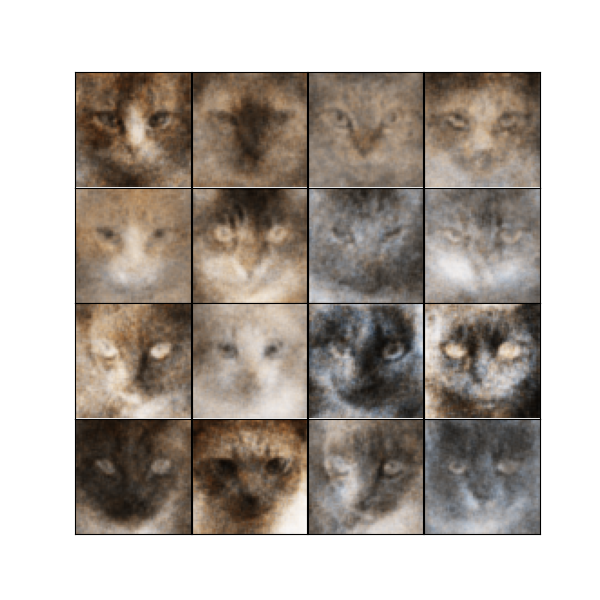
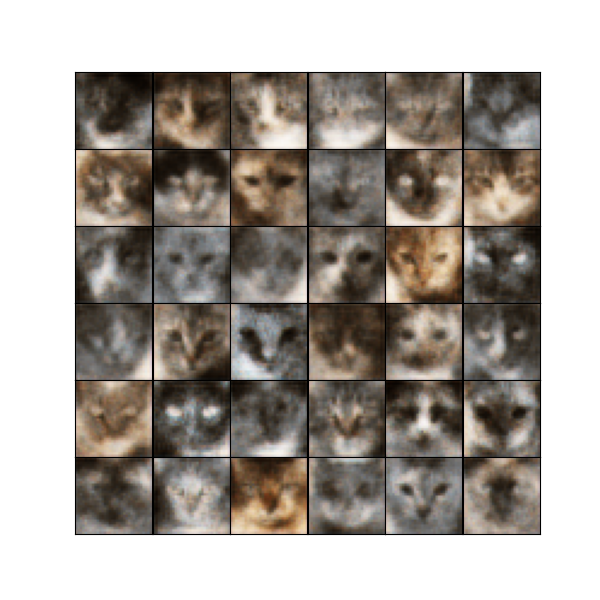
More output and noise

diff --git a/src/genetic_algorithm.py b/src/genetic_algorithm.py
@@ -9,7 +9,8 @@ from torch import optim
 from torch.utils.data import DataLoader
 
 from src.config import ACTIVATION_FUNCTIONS, DEVICE, BEST_MODEL_PATH, CONV_FEATURES, KERNEL_SIZES, USE_CONV, \
-    LINEAR_FEATURES, LATENT_SIZE, WANDB_LOGIN, ATTEMPTS_INDIVIDUAL
+    LINEAR_FEATURES, LATENT_SIZE, WANDB_LOGIN, ATTEMPTS_INDIVIDUAL, ADD_NOISE, ROOT_N_IMAGES, GENERATED_PATH, \
+    TRUE_PATH, RECS_PATH
 from src.autoencoder import *
 from src.utils import visualize_collection
 
@@ -262,7 +263,12 @@ class Individual:
             inputs = inputs.to(DEVICE)
             optimizer.zero_grad()
 
-            latent_vector, reconstruction = model(inputs)
+            if ADD_NOISE:
+                noise = torch.rand_like(inputs) * 0.1 - 0.05
+                noise = noise.to(DEVICE)
+                latent_vector, reconstruction = model(inputs + noise)
+            else:
+                latent_vector, reconstruction = model(inputs)
 
             loss = criterion(reconstruction, inputs)
             loss.backward()
@@ -341,16 +347,24 @@ class Individual:
         model.eval()
 
         latent_vectors = None
+        eval_true = None
+        eval_recs = None
         for inputs in self.parent.train_loader:
             inputs = inputs.to(DEVICE)
             with torch.set_grad_enabled(False):
                 latent_vector = model.encoder(inputs).cpu().detach()
+
                 if latent_vectors is None:
                     latent_vectors = latent_vector
+                    eval_true = inputs
+                    eval_recs = model.decoder(latent_vector).cpu().detach()
                 else:
                     latent_vectors = torch.concat((latent_vectors, latent_vector), dim=0)
+                    eval_true = torch.concat((eval_true, inputs), dim=0)
+                    eval_recs = torch.concat((eval_recs, model.decoder(latent_vector).cpu().detach()), dim=0)
 
-        return torch.mean(latent_vectors, dim=0), torch.std(latent_vectors, dim=0)
+
+        return torch.mean(latent_vectors, dim=0), torch.std(latent_vectors, dim=0), eval_true, eval_recs
 
     def fit_autoencoder(self, epochs):
         """
@@ -380,7 +394,7 @@ class Individual:
         model, best_score = self.train(model, criterion, optimizer, scheduler, epochs, epochs // 2)
         return model.to('cpu'), best_score
 
-    def visualize(self, epochs, n=16):
+    def visualize(self, epochs):
         """
         Visualizes generation capabilities of individual
 
@@ -389,13 +403,16 @@ class Individual:
         :return:
         """
         model, best_score = self.fit_long(epochs)
-        means, stds = self.get_latent_dist(model.to(DEVICE))
+        means, stds, eval_true, eval_recs = self.get_latent_dist(model.to(DEVICE))
+        latent_batch = torch.concat([torch.normal(means, stds).unsqueeze(0) for _ in range(ROOT_N_IMAGES ** 2)], dim=0).to(DEVICE)
+
         model.eval()
-        latent_batch = torch.concat([torch.normal(means, stds).unsqueeze(0) for _ in range(n)], dim=0).to(DEVICE)
         recs = model.decoder(latent_batch)
         model.to('cpu')
 
-        visualize_collection(recs, n)
+        visualize_collection(recs, GENERATED_PATH)
+        visualize_collection(eval_true[:ROOT_N_IMAGES ** 2], TRUE_PATH)
+        visualize_collection(eval_recs[:ROOT_N_IMAGES ** 2], RECS_PATH)
 
     def __str__(self):
         return str(self.chromosomes)
@@ -461,7 +478,7 @@ class GeneticAlgorithm:
         if WANDB_LOGIN:
             wandb.log({"best_score": best_fitness})
 
-        pbar = tqdm(list(range(epochs)), desc='Genetic algorithm', leave=True)
+        pbar = tqdm(list(range(epochs)), desc='Genetic algorithm')
         for _ in pbar:
             best_pops = population[-n_children // 2:]
             candidate_pops = population[-n_children:]
@@ -479,7 +496,7 @@ class GeneticAlgorithm:
                 best_fitness = population[-1].get_fitness(epochs_per_model)
                 best_fit = population[-1]
 
-            pbar.set_postfix_str(f'Best score: {best_fitness}, Best_individual: {best_fit}')
+            pbar.set_postfix_str(f'Best score: {best_fitness}, Best_individual: {best_fit}\n')
             if WANDB_LOGIN:
                 wandb.log({"best_score": best_fitness})
         if WANDB_LOGIN:

diff --git a/src/utils.py b/src/utils.py
@@ -1,33 +1,32 @@
 import matplotlib.pyplot as plt
 
-from src.config import GENERATED_PATH
+from src.config import ROOT_N_IMAGES
 
 
-def show(imgs, ncols=4, nrows=4):
+def show(imgs, save_path):
     """
     Output image grid to specified file
 
     :param imgs: collection of images
-    :param ncols: number of columns
-    :param nrows: number of rows
+    :param save_path:
     """
     if not isinstance(imgs, list):
         imgs = [imgs]
-    fig, axs = plt.subplots(ncols=ncols, nrows=nrows, figsize=(6, 6))
+    fig, axs = plt.subplots(ncols=ROOT_N_IMAGES, nrows=ROOT_N_IMAGES, figsize=(ROOT_N_IMAGES, ROOT_N_IMAGES))
     for i, img in enumerate(imgs):
-        axs[i // ncols, i % ncols].imshow(img)
-        axs[i // ncols, i % ncols].set(xticklabels=[], yticklabels=[], xticks=[], yticks=[])
+        axs[i // ROOT_N_IMAGES, i % ROOT_N_IMAGES].imshow(img)
+        axs[i // ROOT_N_IMAGES, i % ROOT_N_IMAGES].set(xticklabels=[], yticklabels=[], xticks=[], yticks=[])
     plt.subplots_adjust(wspace=0, hspace=0)
-    plt.savefig(GENERATED_PATH)
+    plt.savefig(save_path)
 
 
-def visualize_collection(collection, n=16):
+def visualize_collection(collection, save_path):
     """
     transforms collection of torch Tensors for future output
 
     :param collection:
-    :param n:
+    :param save_path:
     :return:
     """
-    imgs = [collection[i].cpu().detach().numpy().transpose((1, 2, 0)) for i in range(n)]
-    show(imgs, int(n ** .5), int(n ** .5))
+    imgs = [collection[i].cpu().detach().numpy().transpose((1, 2, 0)) for i in range(ROOT_N_IMAGES ** 2)]
+    show(imgs, save_path)

diff --git a/src/config.py b/src/config.py
@@ -1,4 +1,3 @@
-import torch
 from torchvision import transforms as tt
 
 WANDB_LOGIN = False
@@ -9,20 +8,21 @@ DATASET_PATH = "./cats"
 DEVICE = 'cpu'
 TRANSFORM = tt.Compose([
     tt.ToTensor(),
-    tt.Resize(64),
+    tt.Resize(32),
 ])
 
 # training configs
 TRAIN_PORTION = 0.1  # either float as portion or integer as number of objects
 VALIDATION_PORTION = 0.05  # either float as portion or integer as number of objects
-BATCH_SIZE = 8
-N_POPULATION = 8
+BATCH_SIZE = 16
+ADD_NOISE = True
+N_POPULATION = 4
 P_CHILDREN = 0.5
-EPOCHS_GA = 5
-ATTEMPTS_INDIVIDUAL = 3
+EPOCHS_GA = 3
+ATTEMPTS_INDIVIDUAL = 1
 EPOCHS_INDIVIDUAL = 1
 
-EPOCHS_BEST = 100
+EPOCHS_BEST = 30
 
 # genetic algorithm details
 ACTIVATION_FUNCTIONS = ['relu', 'lrelu']  # supported relu, lrelu, tanh and sigmoid
@@ -33,5 +33,8 @@ KERNEL_SIZES = [3, 5]
 LATENT_SIZE = 16
 BEST_MODEL_PATH = "./results/best_model.pth"  # should be in existing directory
 
-# output path
+# output configs
+ROOT_N_IMAGES = 6
 GENERATED_PATH = "./results/best.png"  # should be in existing directory
+TRUE_PATH = "./results/true_eval.png"  # should be in existing directory
+RECS_PATH = "./results/recs_eval.png"  # should be in existing directory
